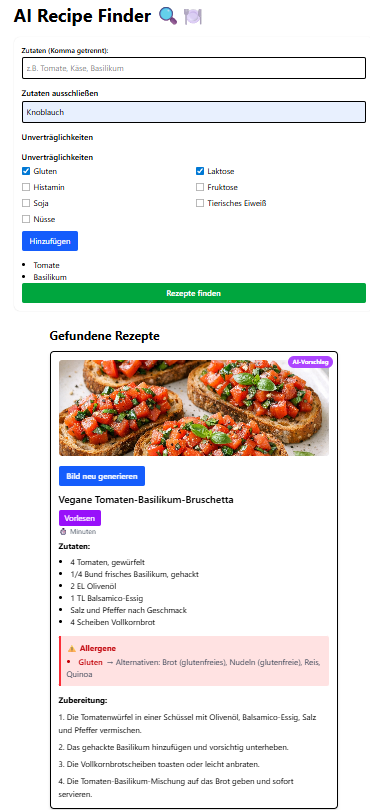
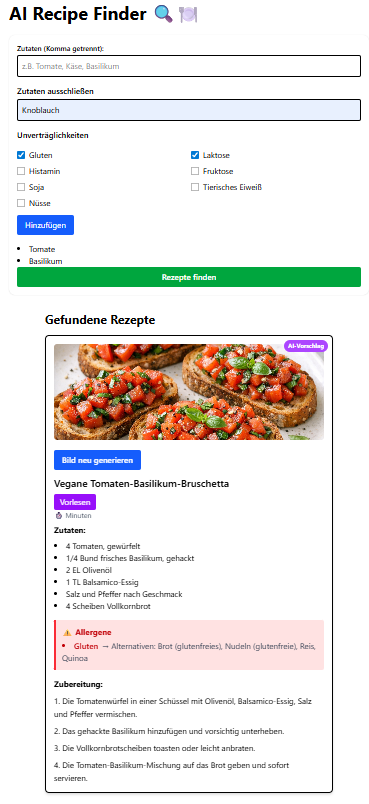
refactor: remove redundant label for intolerances in IngredientInput component

Changed region(s): [[0.0298, 0.0, 1.0, 1.0], [0.5068, 0.1866, 0.7154, 0.2799]]

diff --git a/frontend/src/components/IngredientInput.jsx b/frontend/src/components/IngredientInput.jsx
@@ -68,10 +68,6 @@ export default function IngredientInput({
             Unverträglichkeiten
           </label>
           <div className="mt-4">
-            <label className="block font-semibold mb-1">
-              Unverträglichkeiten
-            </label>
-
             <div className="grid grid-cols-2 gap-2">
               {intoleranceOptions.map((opt) => (
                 <label key={opt.value} className="flex items-center gap-2">